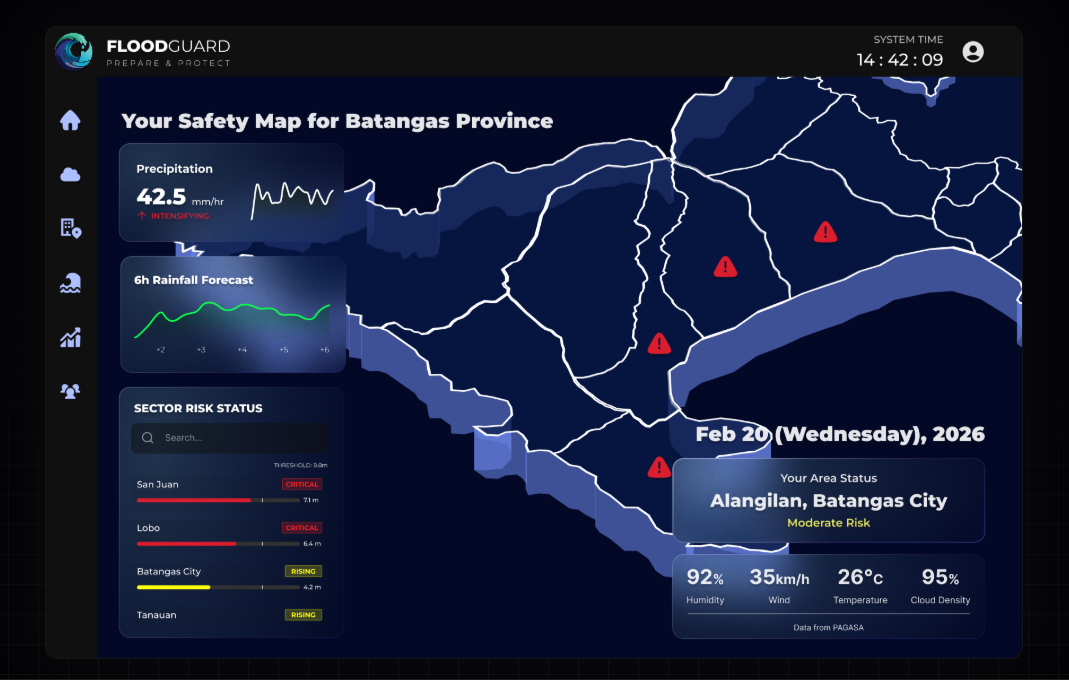
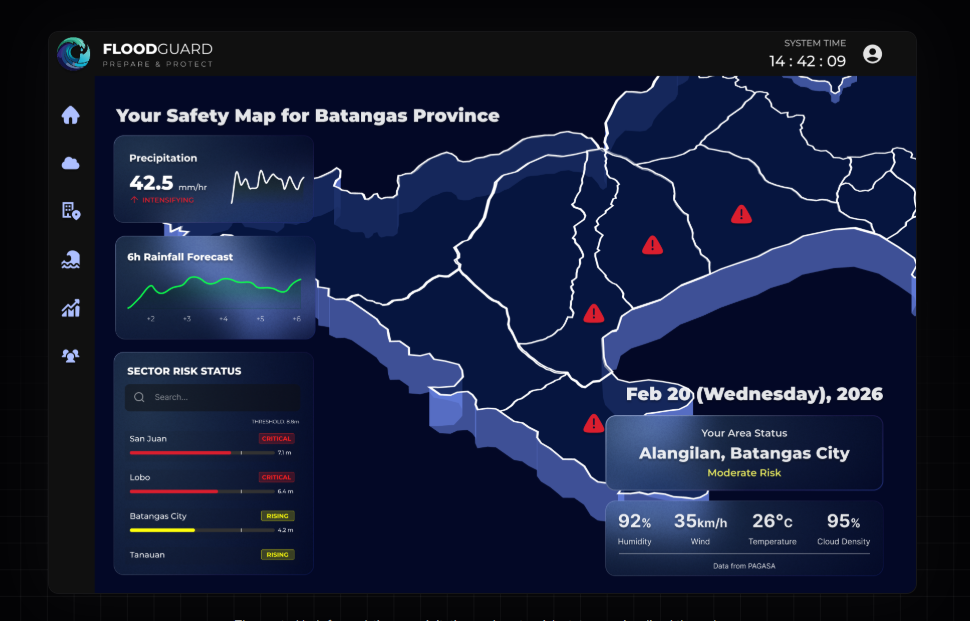
add prototype navigation section in bahanihan

diff --git a/src/pages/BahanihanCaseStudy.tsx b/src/pages/BahanihanCaseStudy.tsx
@@ -477,6 +477,72 @@ const BahanihanCaseStudy = () => {
           </section>
         </section>
 
+        {/* Final CTA / Prototype Link */}
+        <section className="relative w-full py-24 md:py-32 px-6 md:px-12 flex flex-col items-center justify-center text-center overflow-hidden">
+          
+          {/* Atmospheric Radial Glow Behind Content */}
+          <div className="absolute inset-0 bg-[radial-gradient(ellipse_at_center,_var(--tw-gradient-stops))] from-white/[0.03] via-transparent to-transparent pointer-events-none z-0"></div>
+          
+          {/* Subtle ambient light separator */}
+          <div className="absolute top-0 left-1/2 -translate-x-1/2 w-[800px] h-[1px] bg-gradient-to-r from-transparent via-white/10 to-transparent z-10"></div>
+
+          <motion.div
+            initial={{ opacity: 0, y: 30 }}
+            whileInView={{ opacity: 1, y: 0 }}
+            viewport={{ once: true, margin: "-10%" }}
+            transition={{ duration: 0.8, ease: [0.16, 1, 0.3, 1] }}
+            className="relative z-10 flex flex-col items-center py-16 px-6 sm:px-8 md:p-16 lg:p-24 w-full max-w-5xl"
+          >
+            {/* Minimalist Corner Brackets */}
+            <div className="absolute top-0 left-0 w-4 h-4 md:w-6 md:h-6 border-t border-l border-white/20"></div>
+            <div className="absolute top-0 right-0 w-4 h-4 md:w-6 md:h-6 border-t border-r border-white/20"></div>
+            <div className="absolute bottom-0 left-0 w-4 h-4 md:w-6 md:h-6 border-b border-l border-white/20"></div>
+            <div className="absolute bottom-0 right-0 w-4 h-4 md:w-6 md:h-6 border-b border-r border-white/20"></div>
+
+            <h2 className="text-3xl sm:text-4xl md:text-5xl lg:text-7xl font-bold tracking-tighter uppercase leading-tight bg-clip-text text-transparent bg-gradient-to-b from-white to-neutral-500 px-2 md:px-0">
+              EXPERIENCE THE ARCHITECTURE
+            </h2>
+            <p className="text-neutral-400 text-base sm:text-lg md:text-xl font-light max-w-lg mt-5 md:mt-6 text-pretty px-4 md:px-0">
+              Explore the raw Figma file, auto-layout architecture, and interactive flows.
+            </p>
+
+            <a 
+              href="https://www.figma.com/proto/4RYyxYv4CXtY7MjfYgXGnP/BAHANIHAN?node-id=205-330&t=mYxtiypuamoaZxAF-1" 
+              target="_blank" 
+              rel="noopener noreferrer"
+              className="group mt-10 md:mt-12 px-6 sm:px-8 py-3.5 sm:py-4 w-full max-w-[280px] sm:max-w-max rounded-full bg-black/50 backdrop-blur-xl ring-1 ring-white/10 shadow-[0_0_30px_-5px_rgba(255,255,255,0.05)] flex items-center justify-center gap-3 transition-all duration-500 ease-out hover:ring-white/40 hover:bg-white/10 hover:shadow-[0_0_40px_0px_rgba(255,255,255,0.1)] hover:scale-105 active:scale-95"
+            >
+              <svg 
+                className="w-5 h-5 transition-transform duration-500 group-hover:scale-110" 
+                viewBox="0 0 38 57" 
+                fill="none" 
+                xmlns="http://www.w3.org/2000/svg"
+              >
+                <path d="M19 28.5C19 33.7467 14.7467 38 9.5 38C4.25329 38 0 33.7467 0 28.5C0 23.2533 4.25329 19 9.5 19H19V28.5Z" fill="#0ACF83"/>
+                <path d="M0 9.5C0 4.25329 4.25329 0 9.5 0H19V19H9.5C4.25329 19 0 14.7467 0 9.5Z" fill="#F24E1E"/>
+                <path d="M19 0H28.5C33.7467 0 38 4.25329 38 9.5C38 14.7467 33.7467 19 28.5 19H19V0Z" fill="#FF7262"/>
+                <path d="M38 28.5C38 33.7467 33.7467 38 28.5 38C23.2533 38 19 33.7467 19 28.5C19 23.2533 23.2533 19 28.5 19H38V28.5Z" fill="#1ABCFE"/>
+                <path d="M19 47.5C19 52.7467 14.7467 57 9.5 57C4.25329 57 0 52.7467 0 47.5C0 42.2533 4.25329 38 9.5 38C14.7467 38 19 42.2533 19 47.5Z" fill="#A259FF"/>
+              </svg>
+              <span className="text-white text-sm font-medium tracking-wide uppercase transition-colors duration-500">Interact with Prototype</span>
+            </a>
+          </motion.div>
+
+          {/* The Page Anchor Base */}
+          <motion.div 
+            initial={{ opacity: 0 }}
+            whileInView={{ opacity: 1 }}
+            viewport={{ once: true }}
+            transition={{ duration: 1, delay: 0.5 }}
+            className="relative z-10 w-full flex flex-col items-center mt-20 md:mt-28"
+          >
+            <div className="w-full max-w-sm h-px bg-gradient-to-r from-transparent via-white/10 to-transparent"></div>
+            <span className="mt-6 text-[10px] md:text-xs font-mono tracking-[0.3em] text-neutral-600 uppercase">
+              END OF CASE STUDY
+            </span>
+          </motion.div>
+        </section>
+
         {/* Click-Activated Floating Modal */}
         <AnimatePresence>
           {hoveredImage && (
